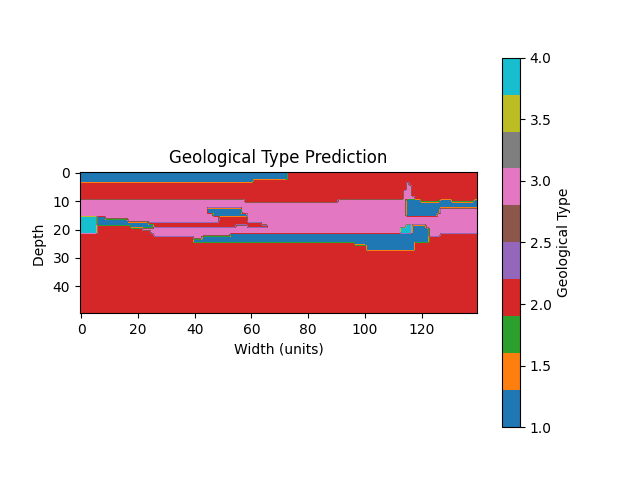
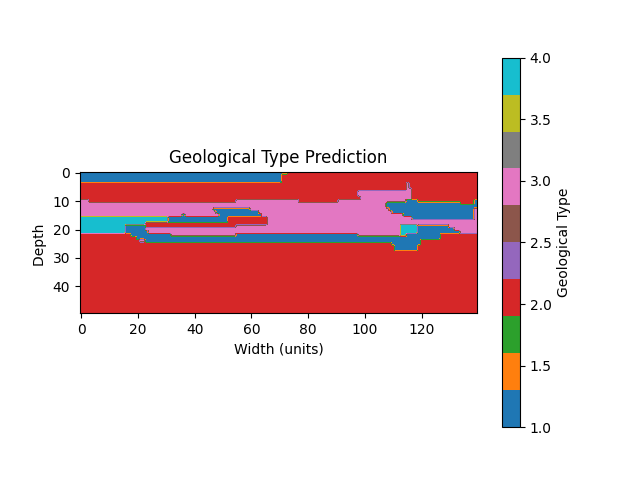
正常規則

Changed region(s): [[0.125, 0.375, 0.4688, 0.5312], [0.5625, 0.375, 0.75, 0.5312], [0.4375, 0.3438, 0.4688, 0.375]]

diff --git a/gpt.py b/gpt.py
@@ -6,7 +6,7 @@ import matplotlib.pyplot as plt
 Matrix4D = "test.csv"
 Matrix5D = '5DMatrix.csv'
 sixHole = '6Hole.csv'
-test_file='test - 複製.csv'
+# test_file='test - 複製.csv'
 test_file='test.csv'
 
 denominator = 0
@@ -15,7 +15,7 @@ HoleLocation_entire = []
 HoleLocation_verify = []
 
 
-entire_file = pd.read_csv(test_file, delimiter=",").values
+entire_file = pd.read_csv(Matrix4D, delimiter=",").values
 entiry_matrix = entire_file[1:, :]  # skip first column 第一行是位子
 Hole_distance = entire_file[0]
 print('最大位置',Hole_distance.max())
@@ -36,7 +36,7 @@ print(unique_numbers)
 print('共有', typenumber, '種土壤材質')
 
 # 轉換公司土壤代號為0~...
-mapping = {value: index for index, value in enumerate(unique_numbers)}
+mapping = {value: index+1 for index, value in enumerate(unique_numbers)}
 entiry_matrix = [[mapping[value] for value in row] for row in entiry_matrix]
 # 定義各個孔洞的位置
 HoleLocation_entire=Hole_distance/interval
@@ -44,21 +44,19 @@ HoleLocation_entire=HoleLocation_entire.astype(int)
 HoleLocation_entire[0]=1
 print('孔洞位置:', HoleLocation_entire)
 
-# current_matrix = np.array([0.0,0.0,0.0,0.0,0.0,0.0,0.0,0.0])
-# transitionName = np.array([1, 2, 3, 4, 5, 6, 7, 8])
+
 # 計算轉移概率矩陣的函數
 def calculate_transition_matrix(matrix,hole_location):
     group_number = np.zeros(A)
-    print("location size",hole_location)
     # # 將地質數據中的類型分組存儲到 group_number 數組中
-    for i in range(1, 74, 1):
-        group_number[i - 1] = 1
-    for i in range(74, 140, 1):
-        group_number[i - 1] = 2
-
-    for i in range(1, D + 1, 1):
+    for i in range(140):
+        if i < 74:
+            group_number[i] = 1
+        else:
+            group_number[i] = 2
+    for i in range( D):
         for j in range(len(hole_location)):
-            group_number[(hole_location[j] - 1) + (i-1)  * W] = matrix[i-1][j]
+            group_number[(hole_location[j] - 1) + i  * W] = matrix[i][j]
 
             
     T_t_V = np.zeros(len(matrix))
@@ -108,15 +106,16 @@ def calculate_transition_matrix(matrix,hole_location):
     for i in range(np.size(Tmatrix_H, 1)):
         for j in range(np.size(Tmatrix_H, 1)):
             Tmatrix_H[i][j] = Tmatrix_H[i][j] / count_H[i]
-
     return Tmatrix_V, Tmatrix_H ,group_number
 
 # 計算 HoleLocation_entire 的轉移矩陣
 Tmatrix_V_entire, Tmatrix_H_entire ,group_number_entire= calculate_transition_matrix(entiry_matrix,HoleLocation_entire)
+print('group_number_entire:\n',group_number_entire[0:20])
 # 計算 HoleLocation_verify 的轉移矩陣
 # Tmatrix_V_verify, Tmatrix_H_verify,group_number_verify = calculate_transition_matrix(verify_matrix,HoleLocation_verify)
-print('Tmatrix_V_entire:\n',Tmatrix_V_entire)
-print('Tmatrix_H_entire:\n',Tmatrix_H_entire)
+file=open('mylog.txt','w')
+print('Tmatrix_V_entire:\n',Tmatrix_V_entire,file=file)
+print('Tmatrix_H_entire:\n',Tmatrix_H_entire,file=file)
 # 預測地質類型的函數
 def predict_geological_types(Tmatrix_V, Tmatrix_H, HoleLocation,group_number):
     L_state = 0
@@ -124,7 +123,6 @@ def predict_geological_types(Tmatrix_V, Tmatrix_H, HoleLocation,group_number):
     Q_state = 0
     Nx = 0
     a = 0
-
     current_matrix = np.array([[0.0, 0.0, 0.0, 0.0,0.0]])
     transitionName = np.array([[1, 2, 3, 4,5]])
     conditions = {}
@@ -144,6 +142,7 @@ def predict_geological_types(Tmatrix_V, Tmatrix_H, HoleLocation,group_number):
                     Q_state = group_number[(nx - 1) + (layer - 1) * W] - 1
                     Nx = nx
                     break
+            print("Nx:",Nx,"L_state:",L_state,"M_state:",M_state,"Q_state:",Q_state,file=file)
             if i in HoleLocation:
                 a += 1
             else:
@@ -153,15 +152,16 @@ def predict_geological_types(Tmatrix_V, Tmatrix_H, HoleLocation,group_number):
                 f_item1 = 0
                 f_item2 = 0
                 f_item3 = 0
-                for N in range(1, Nx - i):
+                for _ in range(1, Nx - i):
                     Nx_TH = np.dot(Nx_TH, Tmatrix_H)
+                # print("Nx_TH\n",Nx_TH, file=file)
+
                 for f in range(typenumber):
                     f_item1 = Tmatrix_H[int(L_state)][f]
                     f_item2 = Nx_TH[f][int(Q_state)]
                     f_item3 = Tmatrix_V[int(M_state)][f]
                     f_sum += f_item1 * f_item2 * f_item3
-                if f_sum == 0:
-                    print('f_item1:',f_item1,'f_item2:',f_item2,'f_item3:',f_item3)
+                print('f_item1:',f_item1,'f_item2:',f_item2,'f_item3:',f_item3,file=file)
 
                 for k in range(typenumber):
                     k_item1 = Tmatrix_H[int(L_state)][k]
@@ -175,13 +175,8 @@ def predict_geological_types(Tmatrix_V, Tmatrix_H, HoleLocation,group_number):
 
     return group_number
 
-# 複製 group_number 以避免互相干擾
-# group_number_entire = group_number.copy()
-# group_number_verify = group_number.copy()
 
-# 預測並計算 HoleLocation_entire 的地質類型
 predict_result_entire = predict_geological_types(Tmatrix_V_entire, Tmatrix_H_entire, HoleLocation_entire,group_number_entire)
-# 預測並計算 HoleLocation_verify 的地質類型
 
 # 重塑地質類型分組數組為矩陣
 predict_result_entire = predict_result_entire.reshape(D, W)

diff --git a/Markov.py b/Markov.py
@@ -13,17 +13,18 @@ interval = 0.5
 W = int(70/interval) # 140
 D = int(25/interval) # 50
 A = W * D
-geo_matrix = np.loadtxt(sixHole, delimiter=",", skiprows=1) # saperate by ',' , skip first row
+geo_matrix = np.loadtxt(Matrix4D, delimiter=",", skiprows=1) # saperate by ',' , skip first row
 
 
 
 Hole = geo_matrix.shape[1]
 print('共有',Hole,'個孔')
 
-
+geo_matrix=geo_matrix[1:, :] 
 # 獲取不同數字的數量
 unique_numbers = np.unique(geo_matrix)
 typenumber = len(unique_numbers)
+print(unique_numbers)
 print('共有',typenumber,'種土讓材質')
 # 初始化地質類型的分組數組
 group_number = np.zeros(A)
@@ -35,10 +36,9 @@ Hole1 = 1
 Hole2 = int(28 /interval) # 28/0.5  
 Hole3 = int(46 /interval)
 Hole4 = int(58 /interval)
-Hole5 = int(64 /interval) 
-Hole6 = int(70 /interval)    
+Hole5 = int(70 /interval) 
 
-HoleLocation=[Hole1,Hole2,Hole3,Hole4,Hole5,Hole6]
+HoleLocation=[Hole1,Hole2,Hole3,Hole4,Hole5]
 # 將地質數據中的類型分組存儲到group_number數組中
 # Horizontal has two type of soil at the  first layer
 # First matrix?
@@ -53,7 +53,8 @@ for i in range(74, 140, 1):
 for i in range(1, D + 1, 1):
     for j in range(Hole):
         group_number[(HoleLocation[j] - 1) + (i - 1) * W] = geo_matrix[i - 1][j] 
-       
+print('group_number_entire:\n',group_number[0:20])
+
 # 初始化計算地質類型轉移概率的變量
 T_t_V = np.zeros(len(geo_matrix))
 soiltype_V = {}
@@ -121,7 +122,9 @@ count_H = np.sum(Tmatrix_H, axis=1)
 for i in range(np.size(Tmatrix_H, 1)):
     for j in range(np.size(Tmatrix_H, 1)):
         Tmatrix_H[i][j] = Tmatrix_H[i][j] / count_H[i]
-
+file=open('log.txt','w')
+print('Tmatrix_V_entire:\n',Tmatrix_V,file=file)
+print('Tmatrix_H_entire:\n',Tmatrix_H,file=file)
 # 初始化地質類型預測的相關變數
 L_state = 0
 M_state = 0
@@ -150,6 +153,7 @@ for layer in range(2, D + 1):
                 Q_state = group_number[(nx - 1) + (layer - 1) * W] - 1
                 Nx = nx
                 break
+        print("Nx:",Nx,"L_state:",L_state,"M_state:",M_state,"Q_state:",Q_state,file=file)
 
         if i in HoleLocation:
             a += 1
@@ -159,13 +163,20 @@ for layer in range(2, D + 1):
             Nx_TH = Tmatrix_H
             f_sum = 0
             k_sum = 0
+            f_item1 = 0
+            f_item2 = 0
+            f_item3 = 0
             for N in range(1, Nx - i):
                 Nx_TH = np.dot(Nx_TH, Tmatrix_H)
+            # print("Nx_TH\n",Nx_TH,file=file)
+
             for f in range(typenumber):
                 f_item1 = Tmatrix_H[L_state.astype(int)][f]
                 f_item2 = Nx_TH[f][Q_state.astype(int)]
                 f_item3 = Tmatrix_V[M_state.astype(int)][f]
                 f_sum += f_item1 * f_item2 * f_item3
+            print('f_item1:',f_item1,'f_item2:',f_item2,'f_item3:',f_item3,file=file)
+
             for k in range(typenumber):
                 k_item1 = Tmatrix_H[L_state.astype(int)][k]
                 k_item2 = Nx_TH[k][Q_state.astype(int)]
@@ -182,4 +193,5 @@ plt.colorbar(label='Geological Type')
 plt.title('Geological Type Prediction')
 plt.xlabel('Width (units)')
 plt.ylabel('Depth ')
+plt.savefig('GT.png')
 plt.show() 
